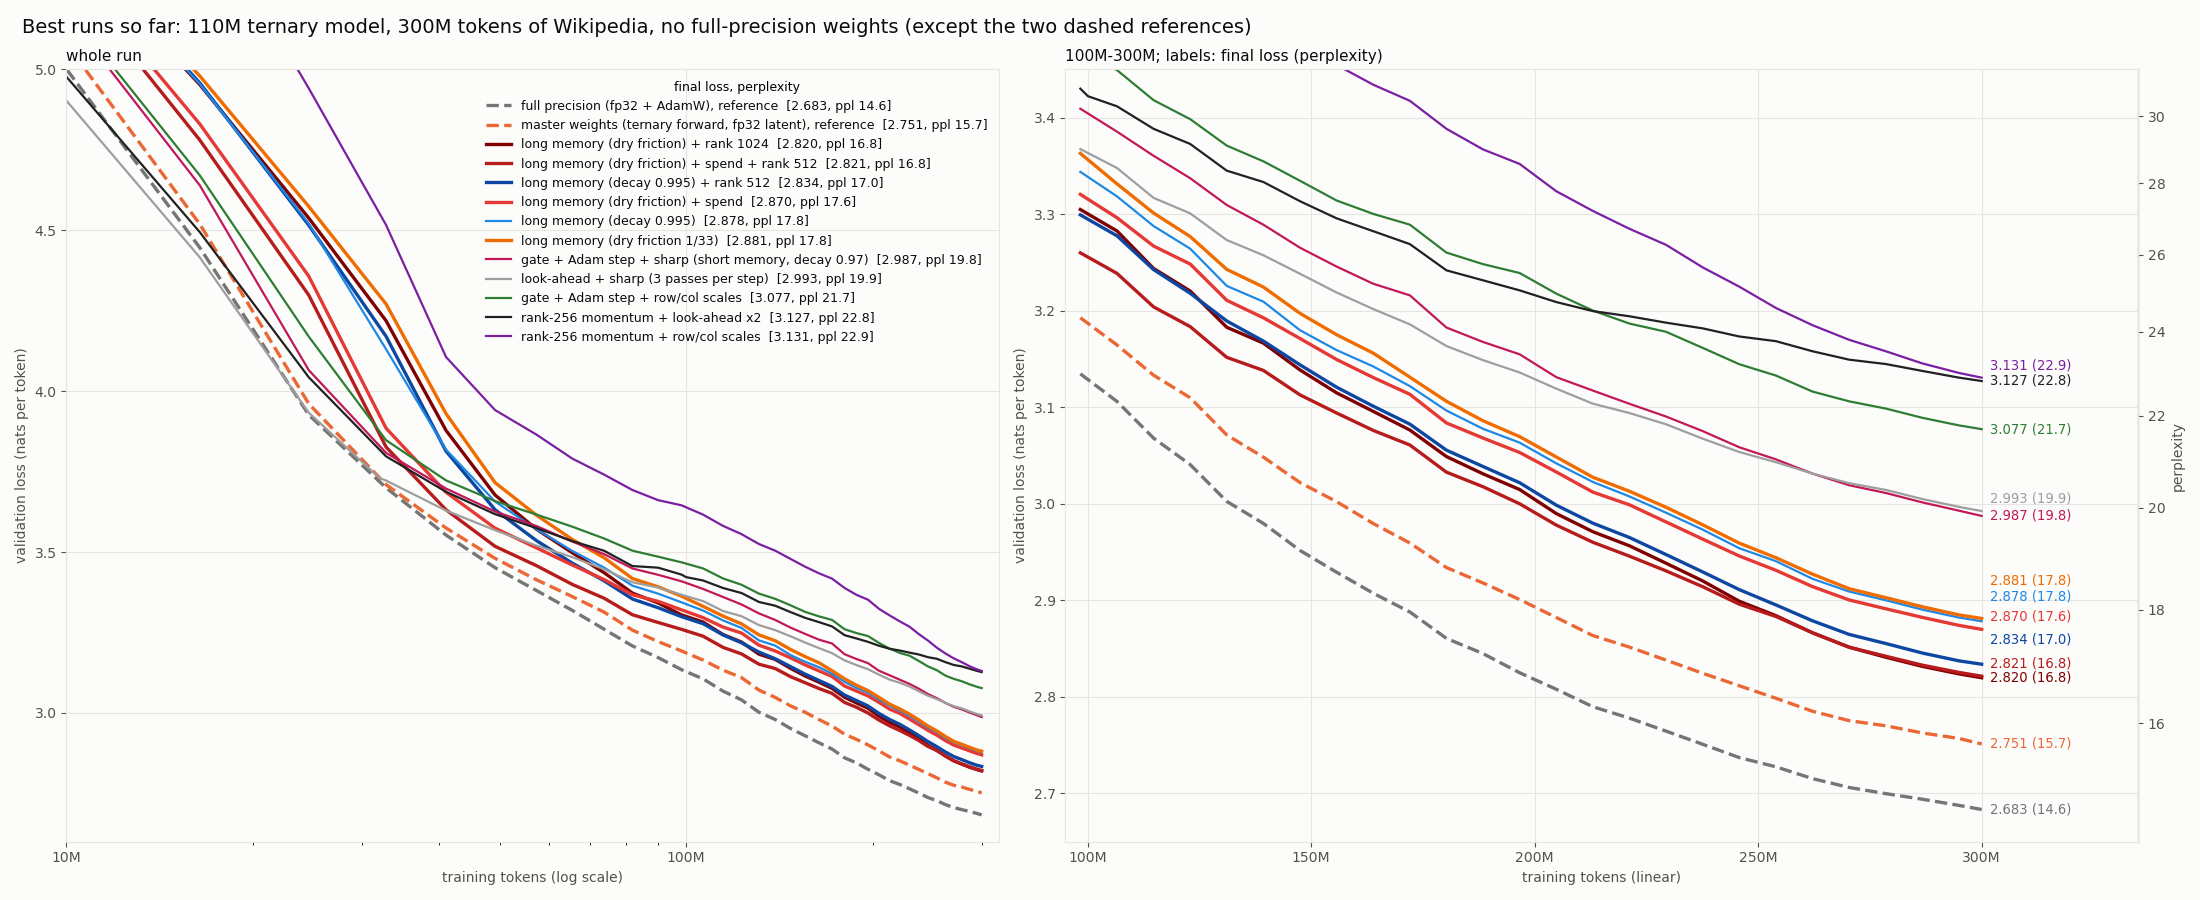
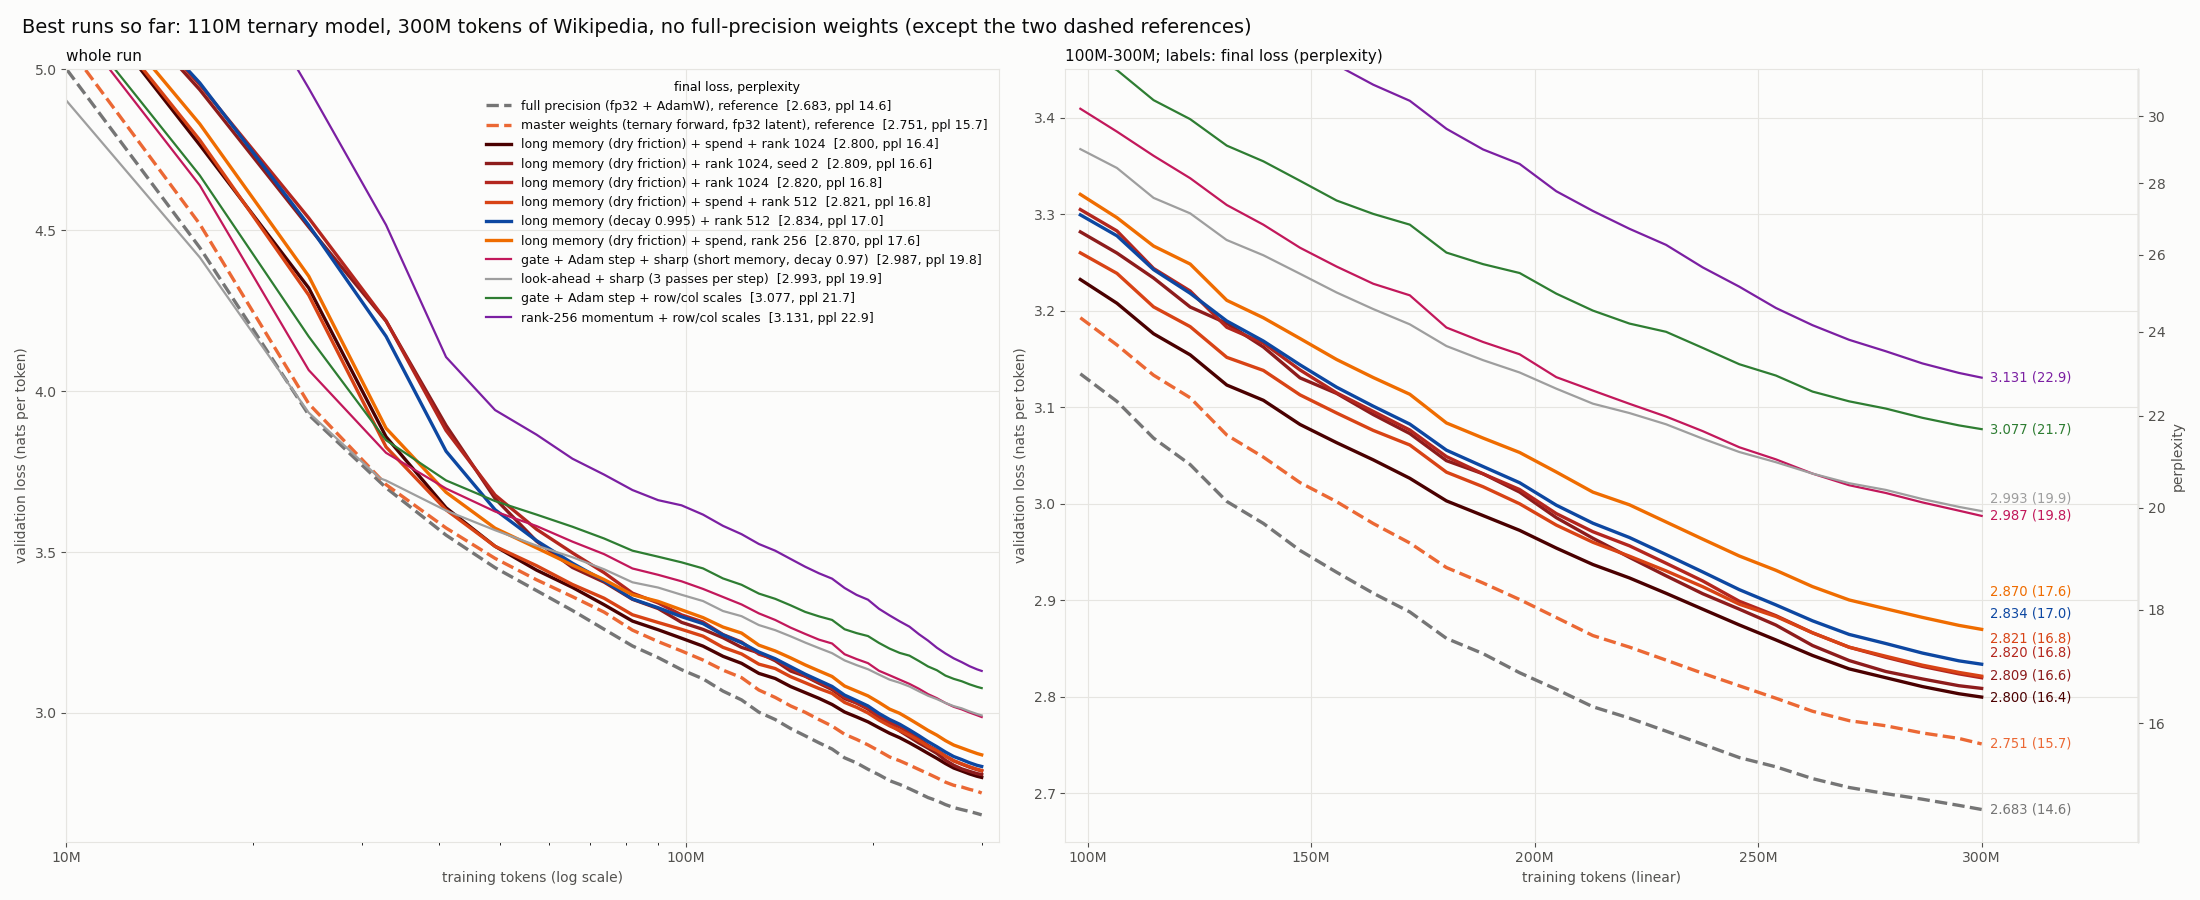
Figures: best runs updated (2.7998, seed 2); new scale.png (rank sweep, 340M vs 110M, loss vs rank)

diff --git a/scripts/plots/plot_scale.py b/scripts/plots/plot_scale.py
@@ -1,0 +1,97 @@
+"""Rank and model size for the current recipe (sharp base + beta 1 + dry friction 1/33 + spend 3). Left: the 110M rank
+sweep, validation loss 100M-300M; middle: 340M (d1024_l24) runs against 110M, with master at both sizes; right: final
+loss against rank at both sizes (the gap between the two lines is what the bigger model buys; the slope is the rank
+penalty). Unfinished runs are dashed and labelled with their step.
+
+  python -m scripts.plots.plot_scale      -> docs/figures/scale.png
+"""
+import math
+import numpy as np
+import matplotlib
+matplotlib.use("Agg")
+import matplotlib.pyplot as plt
+from scripts.plots.plot_best import load, SURFACE, INK, INK2, GRID
+
+RANKS = [(32, "rk32_dryspend_s0"), (64, "rk64_dryspend_s0"), (128, "rk128_dryspend_s0"), (256, "gvsharp_dryspend_s0"),
+         (512, "gvsharp_dryspend_r512_s0"), (1024, "gvsharp_dryspend_r1024_s0")]
+EXTRA = [("rk128_int8_dryspend_s0", "rank 128, int8 momentum"), ("rk64_refresh_dryspend_s0", "rank 64 + subspace refresh")]
+BIG = [(64, "big_rk64_dryspend_s0"), (128, "big_rk128_dryspend_s0"), (512, "big_dryspend_r512_s0")]
+SHADE = {32: 0.25, 64: 0.38, 128: 0.52, 256: 0.66, 512: 0.82, 1024: 1.0}
+C110, C340 = "#b3261e", "#1565c0"
+MASTER = "#eb6834"
+
+
+def end(r):
+    t, v, done, fin = r
+    return fin if fin is not None else v[-1]
+
+
+fig, axs = plt.subplots(1, 3, figsize=(24, 8), facecolor=SURFACE, gridspec_kw={"width_ratios": [1.1, 1.1, 0.9]})
+for ax in axs:
+    ax.set_facecolor(SURFACE); ax.grid(True, color=GRID, lw=0.8)
+    for sp in ax.spines.values(): sp.set_color(GRID)
+    ax.tick_params(colors=INK2)
+fmt = matplotlib.ticker.FuncFormatter(lambda x, _: f"{x / 1e6:.0f}M")
+
+a = axs[0]
+ENDS = []
+def curve(ax, r, c, lw, ls, lab, alpha=1.0):
+    t, v, done, fin = r
+    m = t >= 9.5e7
+    ax.plot(t[m], v[m], ls if done else "--", color=c, lw=lw, alpha=alpha, label=lab)
+    e = end(r); y = e
+    while any(abs(y - u) < 0.014 for u in ENDS): y += 0.014
+    ENDS.append(y)
+    ax.annotate(f"{e:.3f}" + ("" if done else f" @{t[-1] / 1e6:.0f}M"), (t[m][-1], y), xytext=(5, 0),
+                textcoords="offset points", va="center", fontsize=9, color=c, alpha=max(alpha, 0.6))
+m110 = load("master_tracked")
+curve(a, m110, MASTER, 2.2, "-", f"master weights  [{end(m110):.3f}]")
+for k, run in RANKS:
+    r = load(run)
+    if r: curve(a, r, C110, 2.0, "-", f"rank {k}  [{end(r):.3f}]", SHADE[k])
+for run, lab in EXTRA:
+    r = load(run)
+    if r: curve(a, r, "#546e7a", 1.4, ":", f"{lab}  [{end(r):.3f}]")
+a.set_xlim(9.5e7, 3.4e8); a.set_ylim(2.72, 3.3); a.xaxis.set_major_formatter(fmt)
+a.set_xlabel("training tokens", color=INK2); a.set_ylabel("validation loss (nats per token)", color=INK2)
+a.set_title("110M: momentum rank (dry friction + spend)", color=INK, fontsize=11, loc="left")
+a.legend(loc="upper right", fontsize=9, frameon=False, labelcolor=INK)
+
+a = axs[1]
+ENDS = []
+m340 = load("big_master")
+if m340: curve(a, m340, MASTER, 2.4, "-", f"master weights, 340M  [{end(m340):.3f}" + ("]" if m340[2] else ", running]"))
+curve(a, m110, MASTER, 1.4, "-", f"master weights, 110M  [{end(m110):.3f}]", 0.45)
+for k, run in BIG:
+    r = load(run)
+    if r: curve(a, r, C340, 2.2, "-", f"340M, rank {k}  [{end(r):.3f}]", SHADE[k])
+for k, run in RANKS:
+    if k in (64, 128, 512):
+        r = load(run)
+        if r: curve(a, r, C110, 1.2, "-", f"110M, rank {k}  [{end(r):.3f}]", SHADE[k] * 0.6)
+a.set_xlim(9.5e7, 3.4e8); a.set_ylim(2.6, 3.3); a.xaxis.set_major_formatter(fmt)
+a.set_xlabel("training tokens", color=INK2); a.set_ylabel("validation loss (nats per token)", color=INK2)
+a.set_title("340M (d1024_l24, blue) against 110M (red, faint)", color=INK, fontsize=11, loc="left")
+a.legend(loc="upper right", fontsize=9, frameon=False, labelcolor=INK)
+
+a = axs[2]
+for runs, c, lab, mref in ((RANKS, C110, "110M", m110), (BIG, C340, "340M", m340)):
+    pts = [(k, load(r)) for k, r in runs]
+    pts = [(k, end(r)) for k, r in pts if r and r[2]]
+    a.plot([k for k, _ in pts], [v for _, v in pts], "-o", color=c, lw=2, ms=7, label=f"{lab}, ours")
+    for k, v in pts:
+        a.annotate(f"{v:.3f}", (k, v), xytext=(6, 6), textcoords="offset points", fontsize=9, color=c)
+    if mref and mref[2]:
+        a.axhline(end(mref), color=c, lw=1.4, ls="--")
+        a.annotate(f"master, {lab}: {end(mref):.3f}", (0.02, end(mref)), xycoords=("axes fraction", "data"),
+                   xytext=(0, 4), textcoords="offset points", fontsize=9.5, color=c)
+a.set_xscale("log", base=2); a.set_xticks([32, 64, 128, 256, 512, 1024]); a.set_xticklabels(["32", "64", "128", "256", "512", "1024"])
+a.set_xlim(24, 1500); a.set_ylim(2.65, 3.18)
+a.set_xlabel("momentum rank r", color=INK2); a.set_ylabel("final validation loss", color=INK2)
+a.set_title("final loss against rank (dashed = master at that size)", color=INK, fontsize=11, loc="left")
+a.legend(loc="upper right", fontsize=9.5, frameon=False, labelcolor=INK)
+fig.suptitle("Rank and model size: the recipe at 110M and 340M, 300M tokens of Wikipedia (dashed curves = still running)",
+             color=INK, fontsize=14, x=0.01, ha="left")
+fig.tight_layout()
+fig.savefig("docs/figures/scale.png", dpi=95, facecolor=SURFACE)
+print("wrote docs/figures/scale.png")

diff --git a/scripts/plots/plot_best.py b/scripts/plots/plot_best.py
@@ -15,16 +15,18 @@ REFS = {"fp32_baseline", "master_tracked"}
 RUNS = [  # (run, label, colour)
     ("fp32_baseline", "full precision (fp32 + AdamW), reference", "#757575"),
     ("master_tracked", "master weights (ternary forward, fp32 latent), reference", "#eb6834"),
-    ("gvsharp_dry_r1024_s0", "long memory (dry friction) + rank 1024", "#7f0000"),
-    ("gvsharp_dryspend_r512_s0", "long memory (dry friction) + spend + rank 512", "#b71c1c"),
+    ("gvsharp_dryspend_r1024_s0", "long memory (dry friction) + spend + rank 1024", "#4a0000"),
+    ("gvsharp_dry_r1024_seed2", "long memory (dry friction) + rank 1024, seed 2", "#8d1c1c"),
+    ("gvsharp_dry_r1024_s0", "long memory (dry friction) + rank 1024", "#b3261e"),
+    ("gvsharp_dryspend_r512_s0", "long memory (dry friction) + spend + rank 512", "#d84315"),
     ("gvsharp_b0995_r512_s0", "long memory (decay 0.995) + rank 512", "#0d47a1"),
-    ("gvsharp_dryspend_s0", "long memory (dry friction) + spend", "#e53935"),
-    ("gvsharp_b0995_s0", "long memory (decay 0.995)", "#1e88e5"),
-    ("gvsharp_dry_s0", "long memory (dry friction 1/33)", "#ef6c00"),
+    ("gvsharp_dryspend_s0", "long memory (dry friction) + spend, rank 256", "#ef6c00"),
+
+
     ("gvsharp_rc_s0", "gate + Adam step + sharp (short memory, decay 0.97)", "#c2185b"),
     ("magadd16_wd_qk_lab", "look-ahead + sharp (3 passes per step)", "#9e9e9e"),
     ("gatevnorm_rc_s0", "gate + Adam step + row/col scales", "#2e7d32"),
-    ("lm_lowrank256_xb2_100M", "rank-256 momentum + look-ahead x2", "#212121"),
+
     ("rc_s0", "rank-256 momentum + row/col scales", "#7b1fa2"),
 ]
 

diff --git a/docs/figures/README.md b/docs/figures/README.md
@@ -8,6 +8,7 @@ noted. Validation loss is in nats per token; perplexity = e^loss. Formulas behin
 | figure | shows | script |
 |---|---|---|
 | `best_runs.png` | the best run at each step of progress, with the fp32 and master-weights references; whole run (log tokens) and 100M-300M with final loss and perplexity | `python -m scripts.plots.plot_best` |
+| `scale.png` | the recipe at 110M and 340M: the 110M rank sweep (32-1024, int8, refresh), 340M runs against 110M with master at both sizes, final loss against rank | `python -m scripts.plots.plot_scale` |
 | `sweeps.png` | the recipe's three knobs, final loss: momentum decay (as memory 1/(1-b)), dry friction strength, momentum rank | `python -m scripts.plots.plot_sweeps` |
 | `gaps.png` | where the gap to master is at 300M: by training-set count of the (previous, target) pair, by context position (small buckets are noisy: 96 and 672 tokens), and the copy (induction) gain | `python -m scripts.plots.plot_gaps` (data: `scripts/analysis/loss_by_freq.py`, `loss_by_pos.py`) |
 | `night_runs.png` | every run of the night of 29-30 Sep on the sharp base, final loss as the gap to master | `python -m scripts.plots.plot_night` |
